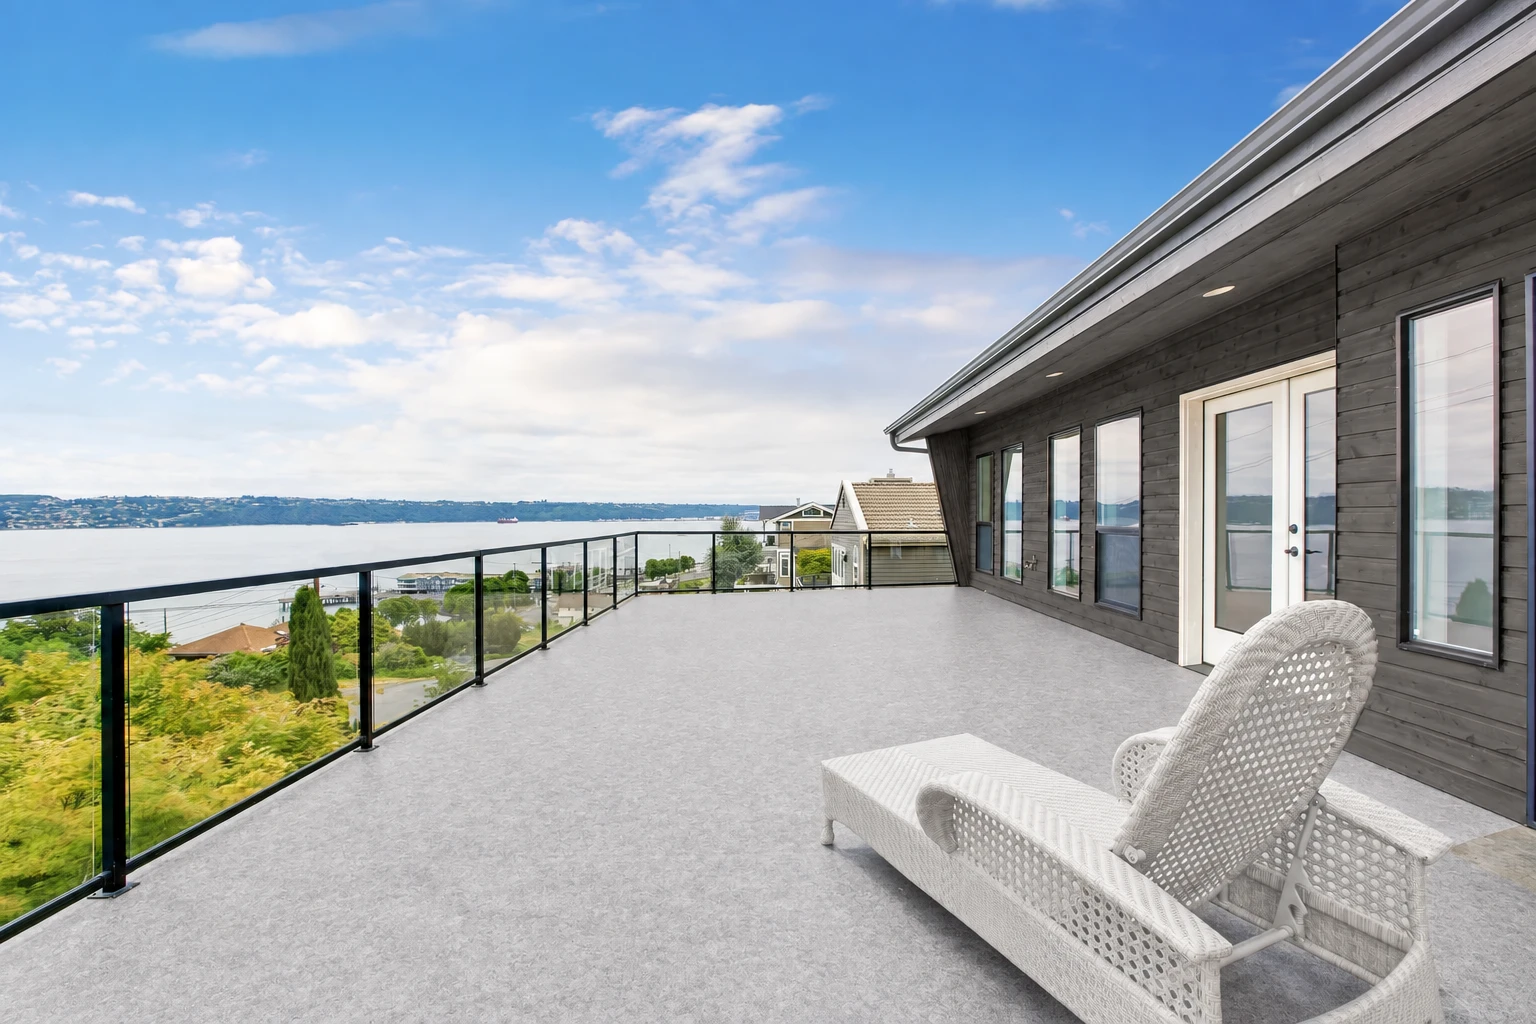
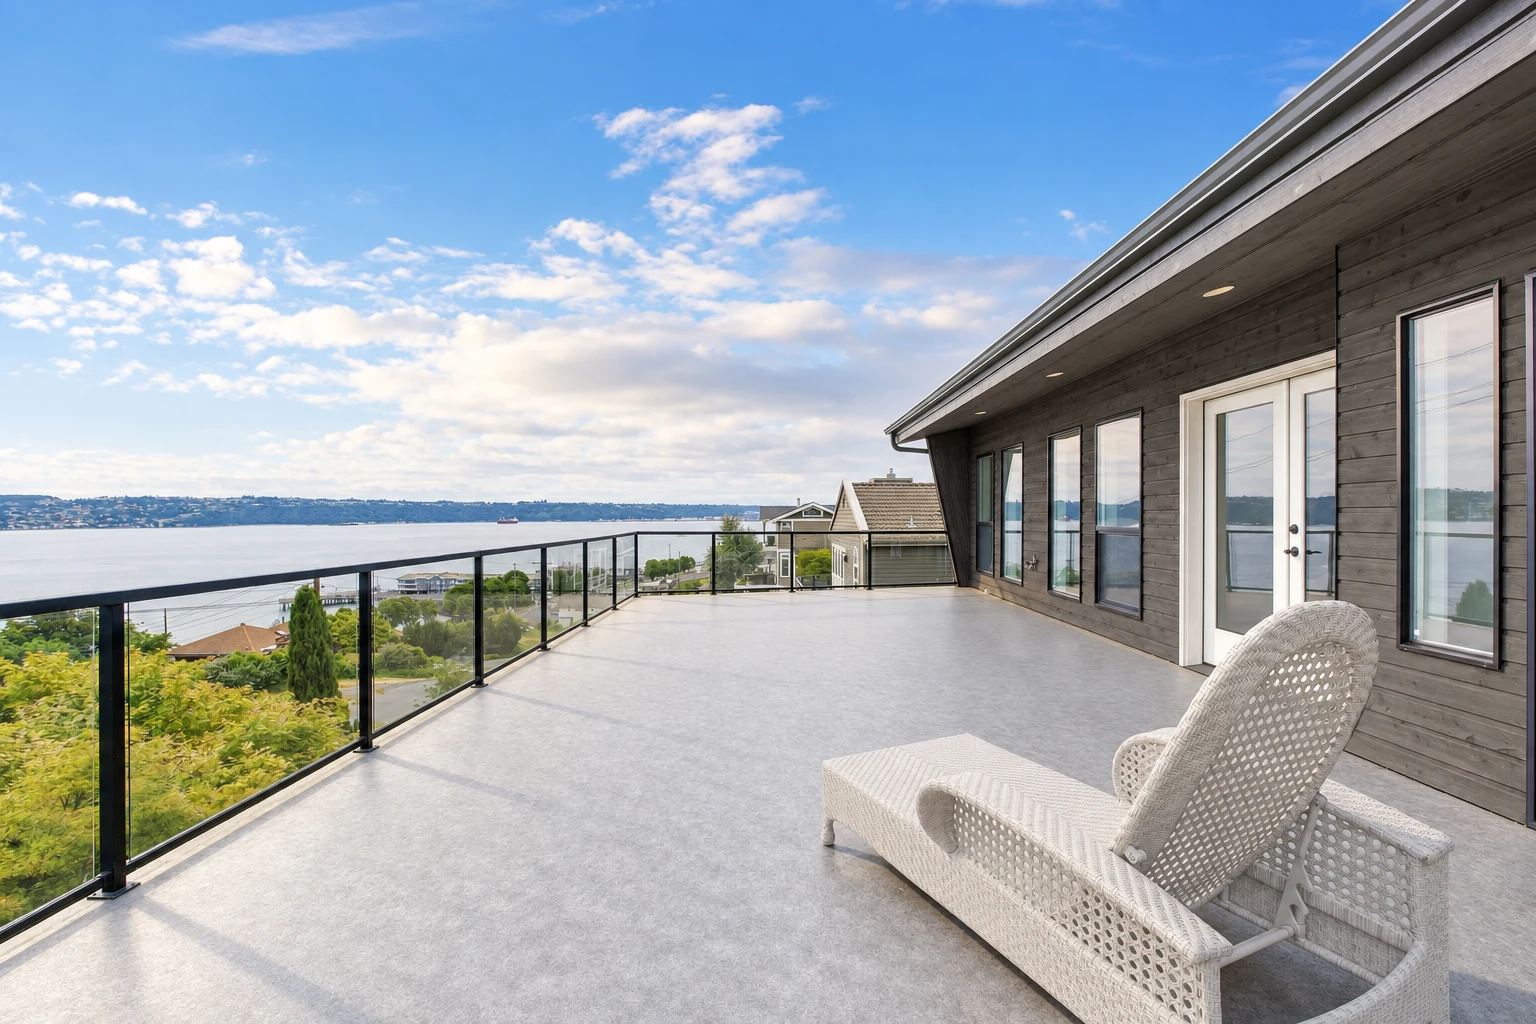
Bust browser and CDN caches when a stock render or photo changes
Mike kept seeing the old Oceanview renders (wood showing behind the
lounger) after they were fixed. The stock files are served with a
one-year immutable cache header, so any browser that had loaded the old
file kept it. The fixes were live on the server but unreachable.

The manifest now records a short content hash per approved combo and
stockComboPath() puts it in the URL as ?v=, so a re-rendered combo is
a new URL everywhere. The Oceanview photo path carries ?v=2 for the
same reason (it was replaced on Sep 24). SiteImage strips the query
before the blur-map lookup, and the stock script strips it before
reading the photo from disk.

Also re-rendered Oceanview granite silver, which had a faint patch of
the original floor in the same corner.

diff --git a/src/config/stockCombos.ts b/src/config/stockCombos.ts
@@ -8,51 +8,57 @@
  * base layout photo, so shipping with a partial list is safe.
  */
 
-export const STOCK_COMBOS: string[] = [
-  "backyard__boardwalk",
-  "backyard__driftwood",
-  "backyard__granite-brown",
-  "backyard__granite-grey",
-  "backyard__granite-silver",
-  "backyard__granite-tan",
-  "backyard__hansberry",
-  "backyard__ipe",
-  "backyard__speckled-stone-brown",
-  "backyard__speckled-stone-grey",
-  "backyard__speckled-stone-silver",
-  "backyard__speckled-stone-tan",
-  "backyard__urban-mist",
-  "backyard__walnut",
-  "glassrail__boardwalk",
-  "glassrail__driftwood",
-  "glassrail__granite-brown",
-  "glassrail__granite-grey",
-  "glassrail__granite-silver",
-  "glassrail__granite-tan",
-  "glassrail__hansberry",
-  "glassrail__ipe",
-  "glassrail__speckled-stone-brown",
-  "glassrail__speckled-stone-grey",
-  "glassrail__speckled-stone-silver",
-  "glassrail__speckled-stone-tan",
-  "glassrail__urban-mist",
-  "glassrail__walnut",
-  "lakeview__boardwalk",
-  "lakeview__driftwood",
-  "lakeview__granite-brown",
-  "lakeview__granite-grey",
-  "lakeview__granite-silver",
-  "lakeview__granite-tan",
-  "lakeview__hansberry",
-  "lakeview__ipe",
-  "lakeview__speckled-stone-brown",
-  "lakeview__speckled-stone-grey",
-  "lakeview__speckled-stone-silver",
-  "lakeview__speckled-stone-tan",
-  "lakeview__urban-mist",
-  "lakeview__walnut"
-];
+/** combo id -> short content hash of the approved file (cache key) */
+export const STOCK_COMBOS: Record<string, string> = {
+  "backyard__boardwalk": "99d4709f",
+  "backyard__driftwood": "67224b91",
+  "backyard__granite-brown": "35925403",
+  "backyard__granite-grey": "81f8dc39",
+  "backyard__granite-silver": "06ddcdfe",
+  "backyard__granite-tan": "7ca735cf",
+  "backyard__hansberry": "60c2bd2d",
+  "backyard__ipe": "894dc798",
+  "backyard__speckled-stone-brown": "dfd521be",
+  "backyard__speckled-stone-grey": "037003c9",
+  "backyard__speckled-stone-silver": "c7a1abbc",
+  "backyard__speckled-stone-tan": "59fc5194",
+  "backyard__urban-mist": "87d01fe4",
+  "backyard__walnut": "6f6d2203",
+  "glassrail__boardwalk": "bd0bb81e",
+  "glassrail__driftwood": "cf025a2e",
+  "glassrail__granite-brown": "83e8ed15",
+  "glassrail__granite-grey": "971dc38d",
+  "glassrail__granite-silver": "a16ae4ee",
+  "glassrail__granite-tan": "9b59c7d1",
+  "glassrail__hansberry": "dbf5072a",
+  "glassrail__ipe": "fd1940a9",
+  "glassrail__speckled-stone-brown": "46c3ae1d",
+  "glassrail__speckled-stone-grey": "57e46e3b",
+  "glassrail__speckled-stone-silver": "31f2c8c2",
+  "glassrail__speckled-stone-tan": "d1721dc4",
+  "glassrail__urban-mist": "b2dc6d6e",
+  "glassrail__walnut": "58845875",
+  "lakeview__boardwalk": "cc9259db",
+  "lakeview__driftwood": "e62095ad",
+  "lakeview__granite-brown": "41790e18",
+  "lakeview__granite-grey": "85b632b1",
+  "lakeview__granite-silver": "441a3a9b",
+  "lakeview__granite-tan": "9da43966",
+  "lakeview__hansberry": "67bac585",
+  "lakeview__ipe": "88759edc",
+  "lakeview__speckled-stone-brown": "4d1c6c58",
+  "lakeview__speckled-stone-grey": "fd4ea3bb",
+  "lakeview__speckled-stone-silver": "04b6a9ca",
+  "lakeview__speckled-stone-tan": "b0de2616",
+  "lakeview__urban-mist": "2354e021",
+  "lakeview__walnut": "8c68b8f3"
+};
 
 export function hasStockCombo(layoutId: string, sku: string): boolean {
-  return STOCK_COMBOS.includes(`${layoutId}__${sku}`);
+  return `${layoutId}__${sku}` in STOCK_COMBOS;
+}
+
+/** The cache key for a combo, or undefined when it has no approved render */
+export function stockComboVersion(layoutId: string, sku: string): string | undefined {
+  return STOCK_COMBOS[`${layoutId}__${sku}`];
 }

diff --git a/scripts/generate-stock-combos.ts b/scripts/generate-stock-combos.ts
@@ -17,6 +17,7 @@
  */
 
 import { copyFile, mkdir, readdir, readFile, unlink, writeFile } from "node:fs/promises";
+import { createHash } from "node:crypto";
 import { existsSync } from "node:fs";
 import path from "node:path";
 import sharp from "sharp";
@@ -92,7 +93,8 @@ async function generateAll(layoutFilter: string, skuFilter: string, force: boole
   for (const layout of layouts) {
     // Same pipeline as Custom Mode: downscale to the working resolution,
     // re-encode (EXIF gone), then hand both images to the model
-    const deckPhoto = await sharp(path.join(ROOT, "public", layout.photoPath))
+    // photoPath may carry a ?v= cache key; the file on disk does not
+    const deckPhoto = await sharp(path.join(ROOT, "public", layout.photoPath.split("?")[0]))
       .rotate()
       .resize(LIMITS.workingEdgePx, LIMITS.workingEdgePx, {
         fit: "inside",
@@ -185,11 +187,19 @@ async function approve(combos: string[], all: boolean) {
     console.log(`✓ ${name} → public${path.sep}images${path.sep}visualizer${path.sep}stock`);
   }
 
-  // The manifest mirrors the public dir — never hand-maintained
-  const approved = (await readdir(PUBLIC_DIR))
+  // The manifest mirrors the public dir — never hand-maintained. Each
+  // combo carries a short content hash: the site puts it in the image URL
+  // so a re-rendered combo is never served from a browser or CDN cache
+  // (the stock files ship with a one-year immutable cache header).
+  const onDisk = (await readdir(PUBLIC_DIR))
     .filter((f) => f.endsWith(".webp"))
     .map((f) => f.replace(/\.webp$/, ""))
     .sort();
+  const approved: Record<string, string> = {};
+  for (const name of onDisk) {
+    const bytes = await readFile(path.join(PUBLIC_DIR, `${name}.webp`));
+    approved[name] = createHash("sha256").update(bytes).digest("hex").slice(0, 8);
+  }
 
   await writeFile(
     MANIFEST,
@@ -203,14 +213,20 @@ async function approve(combos: string[], all: boolean) {
  * base layout photo, so shipping with a partial list is safe.
  */
 
-export const STOCK_COMBOS: string[] = ${JSON.stringify(approved, null, 2)};
+/** combo id -> short content hash of the approved file (cache key) */
+export const STOCK_COMBOS: Record<string, string> = ${JSON.stringify(approved, null, 2)};
 
 export function hasStockCombo(layoutId: string, sku: string): boolean {
-  return STOCK_COMBOS.includes(\`\${layoutId}__\${sku}\`);
+  return \`\${layoutId}__\${sku}\` in STOCK_COMBOS;
+}
+
+/** The cache key for a combo, or undefined when it has no approved render */
+export function stockComboVersion(layoutId: string, sku: string): string | undefined {
+  return STOCK_COMBOS[\`\${layoutId}__\${sku}\`];
 }
 `,
   );
-  console.log(`\nManifest updated: ${approved.length} approved combo(s).`);
+  console.log(`\nManifest updated: ${onDisk.length} approved combo(s).`);
 }
 
 const args = parseArgs(process.argv.slice(2));

diff --git a/src/config/visualizer.ts b/src/config/visualizer.ts
@@ -10,7 +10,9 @@ export type StockLayout = {
   id: string;
   name: string;
   /** The untouched deck photo, served from /public. Also the input the
-   *  stock-combo generation script sends to the image model. */
+   *  stock-combo generation script sends to the image model. Carries a
+   *  ?v= cache key: bump it whenever the file is replaced, or browsers
+   *  keep the old photo for a year. */
   photoPath: string;
   /** Cross-promo for the Innovative Aluminum railing visible in the shot */
   railing: {
@@ -27,7 +29,7 @@ export const STOCK_LAYOUTS: StockLayout[] = [
   {
     id: "lakeview",
     name: "Oceanview deck",
-    photoPath: "/images/oceanview-balcony-glass-railing.jpg",
+    photoPath: "/images/oceanview-balcony-glass-railing.jpg?v=2",
     railing: {
       name: "Innovative Aluminum glass railing",
       url: "https://www.innovativealuminum.com/",
@@ -57,10 +59,14 @@ export function getStockLayout(id: string): StockLayout | undefined {
   return STOCK_LAYOUTS.find((layout) => layout.id === id);
 }
 
-/** Where approved stock combos live, and how they are named */
+/** Where approved stock combos live, and how they are named. The
+ *  version (a content hash from the manifest) goes in the query string:
+ *  the files are served immutable for a year, so a re-rendered combo
+ *  needs a new URL to reach browsers and the CDN. */
 export const STOCK_COMBO_DIR = "/images/visualizer/stock";
-export function stockComboPath(layoutId: string, sku: string) {
-  return `${STOCK_COMBO_DIR}/${layoutId}__${sku}.webp`;
+export function stockComboPath(layoutId: string, sku: string, version?: string) {
+  const file = `${STOCK_COMBO_DIR}/${layoutId}__${sku}.webp`;
+  return version ? `${file}?v=${version}` : file;
 }
 
 // ── Custom Mode limits ──────────────────────────────────────────────────

diff --git a/src/components/visualizer/VisualizerExperience.tsx b/src/components/visualizer/VisualizerExperience.tsx
@@ -24,7 +24,7 @@ import {
   STOCK_LAYOUTS,
   stockComboPath,
 } from "@/config/visualizer";
-import { hasStockCombo } from "@/config/stockCombos";
+import { hasStockCombo, stockComboVersion } from "@/config/stockCombos";
 import {
   getRender,
   hashBytes,
@@ -197,7 +197,7 @@ export default function VisualizerExperience({
     for (const v of vinyls) {
       if (hasStockCombo(layout.id, v.sku)) {
         const img = new Image();
-        img.src = stockComboPath(layout.id, v.sku);
+        img.src = stockComboPath(layout.id, v.sku, stockComboVersion(layout.id, v.sku));
         img.decode().catch(() => {});
       }
     }
@@ -410,7 +410,7 @@ export default function VisualizerExperience({
         if (hasStockCombo(layout.id, v.sku)) {
           items.push({
             id: `stock:${layout.id}:${v.sku}`,
-            src: stockComboPath(layout.id, v.sku),
+            src: stockComboPath(layout.id, v.sku, stockComboVersion(layout.id, v.sku)),
             previewSrc: v.swatchPath,
             label: v.name,
             rendered: true,
@@ -533,7 +533,7 @@ export default function VisualizerExperience({
   // ── Stage + downloads ───────────────────────────────────────────────
 
   const stockCombo = hasStockCombo(layout.id, sku)
-    ? stockComboPath(layout.id, sku)
+    ? stockComboPath(layout.id, sku, stockComboVersion(layout.id, sku))
     : null;
   const stageTarget =
     mode === "stock" ? (stockCombo ?? layout.photoPath) : (renders[sku] ?? photo?.url ?? null);

diff --git a/src/components/SiteImage.tsx b/src/components/SiteImage.tsx
@@ -8,9 +8,11 @@ import { BLUR_MAP } from "@/lib/blur-map";
  * placeholder already set — falls straight through to next/image.
  */
 export default function SiteImage(props: ImageProps) {
+  // A ?v= cache key on the path does not change the picture, so the
+  // lookup ignores it
   const blur =
     typeof props.src === "string" && !props.placeholder && !props.blurDataURL
-      ? BLUR_MAP[props.src]
+      ? BLUR_MAP[props.src.split("?")[0]]
       : undefined;
 
   if (!blur) return <Image {...props} />;
